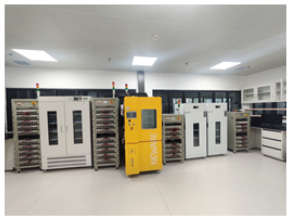
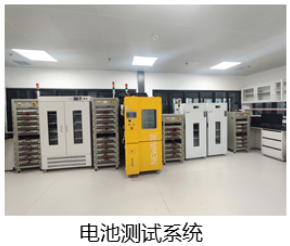
update

diff --git a/_pages/members.md b/_pages/members.md
@@ -1,6 +1,6 @@
 ---
 permalink: /members/
-title: "课题组成员"
+title: ""
 layout: single
 author_profile: false
 ---
